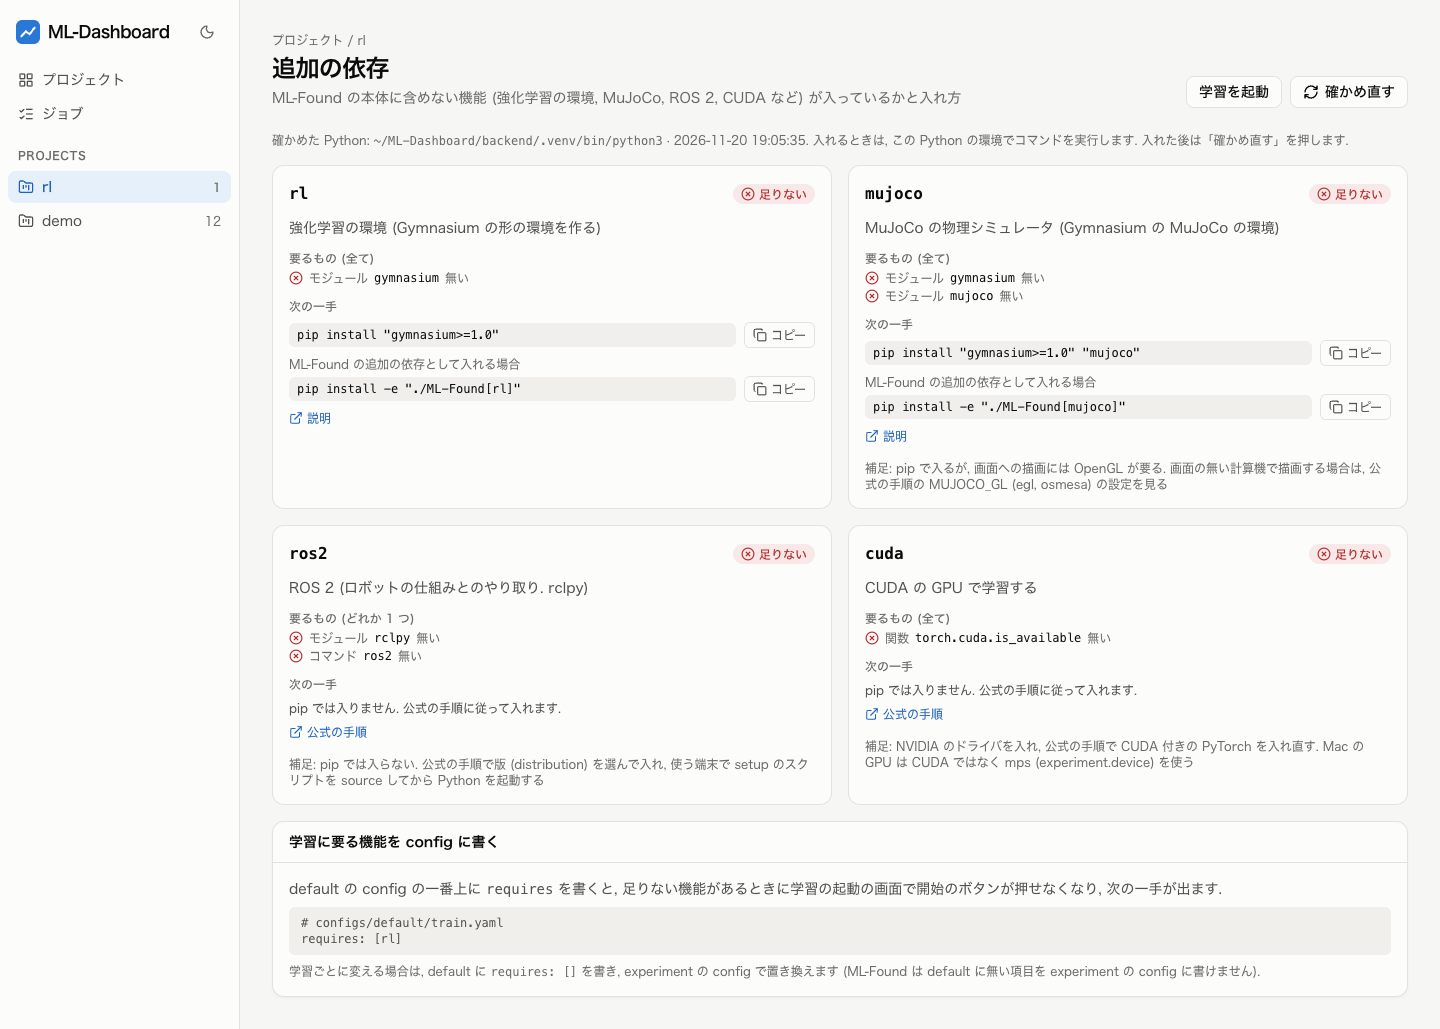
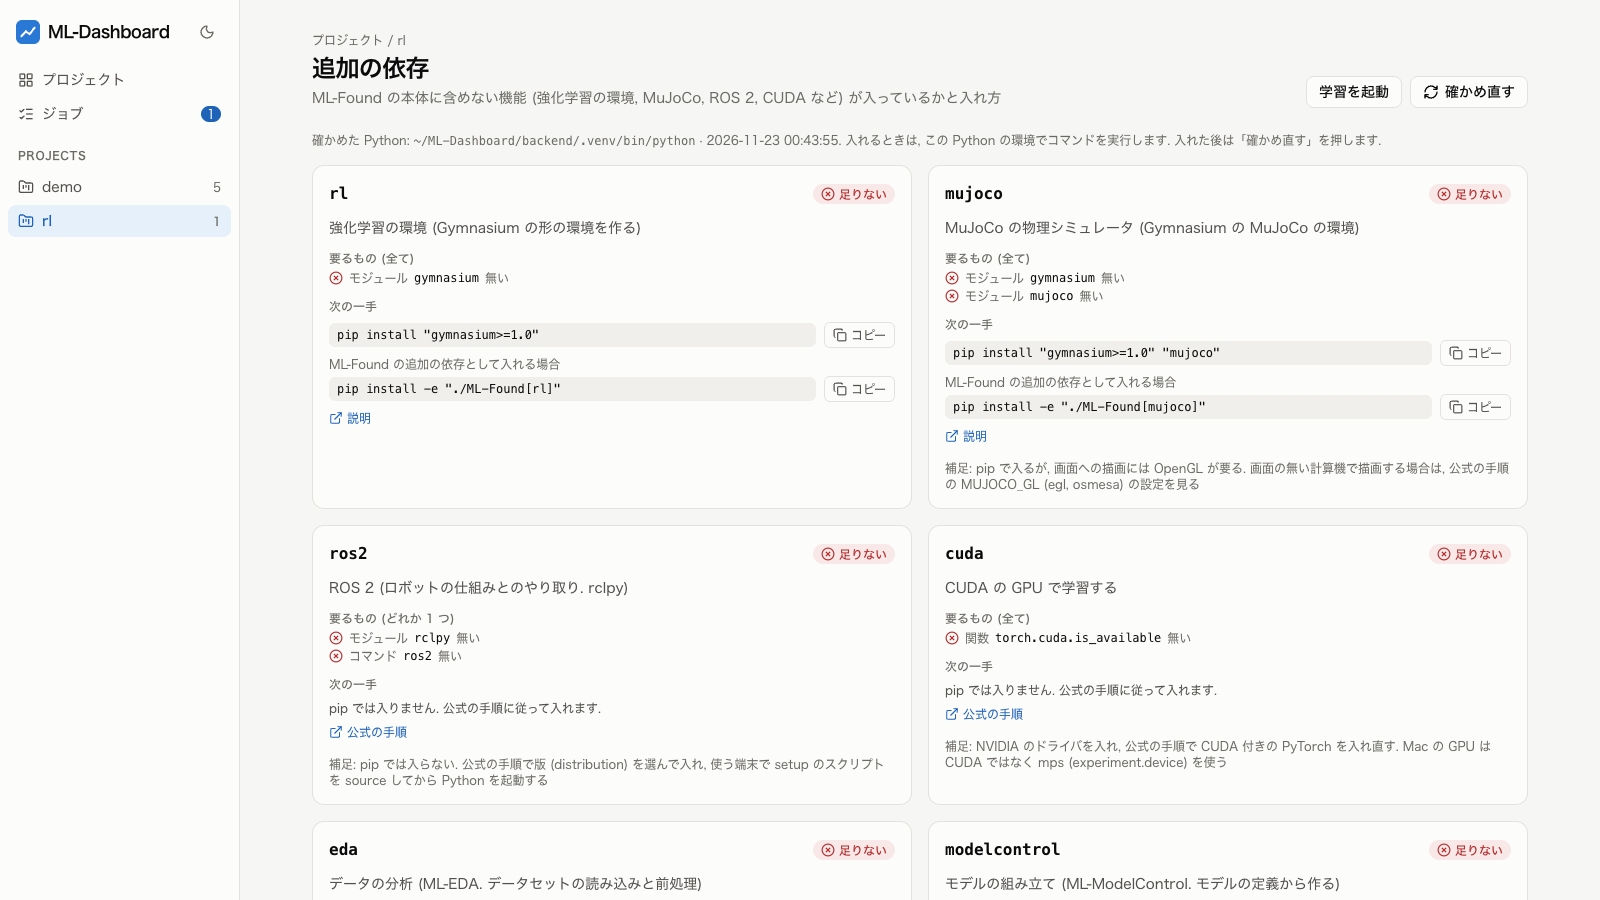
README の画面の図を 1600x900 で全て撮り直し, 撮る仕組みで 7 枚とも撮れるようにする (#128)

diff --git a/frontend/e2e/screenshots.ts b/frontend/e2e/screenshots.ts
@@ -1,16 +1,25 @@
-// README と操作ガイドの画面の図 (実験の一覧と比較) を撮る. e2e/screenshots.sh が
-// デモの実験を作ってダッシュボードを起動してから, node で動かす
+// README の画面の図 7 枚 (1600x900 の窓) と操作ガイドの実験の一覧の図を撮る.
+// e2e/screenshots.sh がデモの実験を作ってダッシュボードを起動してから, node で動かす
 import os from 'node:os'
 import path from 'node:path'
 
-import { chromium, type Page } from '@playwright/test'
+import { chromium, type APIRequestContext, type Page } from '@playwright/test'
 
 const baseURL = process.env.SHOTS_URL ?? 'http://127.0.0.1:8792'
 const token = process.env.SHOTS_TOKEN ?? 'shots-token'
 const demoDir = process.env.SHOTS_DEMO ?? ''
+const rlDir = process.env.SHOTS_RL ?? ''
 const imagesDir = path.resolve(import.meta.dirname, '..', '..', 'docs', 'images')
 // 図に出すプロジェクトの場所 (作業用のディレクトリの場所を図に写さないため)
-const shownDir = '~/ML-Dashboard/demo'
+const shownDirs: [string, string][] = [
+  [demoDir, '~/ML-Dashboard/demo'],
+  [rlDir, '~/ML-Dashboard/rl'],
+  // 学習に使う Python (ダッシュボードの .venv) の場所
+  [path.resolve(import.meta.dirname, '..', '..'), '~/ML-Dashboard'],
+]
+// README の図の窓の大きさ
+const WIDTH = 1600
+const HEIGHT = 900
 // 写ってはいけない注意 (評価を読めない実験. 図の例として誤解を招くため)
 const NOTICE_PATTERN = /出していません|読んでいません|出せない実験/
 
@@ -21,15 +30,18 @@ interface Run {
 
 /** 作業用のディレクトリの場所を, 図に出す場所に置き換える */
 async function hidePaths(page: Page): Promise<void> {
-  const home = demoDir.replace(os.homedir(), '~')
+  // 絶対パスと ~ からのパスの両方を置き換える
+  const pairs = shownDirs.flatMap(([dir, shown]) => [
+    [dir, shown],
+    [dir.replace(os.homedir(), '~'), shown],
+  ])
   // ブラウザの中で動かす文 (e2e の型検査は DOM の型を持たないので文字で渡す)
-  const paths = JSON.stringify([demoDir, home])
   await page.evaluate(`(() => {
     const walker = document.createTreeWalker(document.body, NodeFilter.SHOW_TEXT)
     for (let node = walker.nextNode(); node; node = walker.nextNode()) {
-      for (const item of ${paths}) {
+      for (const [item, shown] of ${JSON.stringify(pairs)}) {
         if (node.textContent.includes(item))
-          node.textContent = node.textContent.replaceAll(item, ${JSON.stringify(shownDir)})
+          node.textContent = node.textContent.replaceAll(item, shown)
       }
     }
   })()`)
@@ -54,6 +66,31 @@ async function fitHeight(page: Page, width: number): Promise<void> {
   await settle(page)
 }
 
+/** 窓の大きさを README の図に戻して, 見えている範囲を撮る */
+async function shoot(page: Page, name: string): Promise<void> {
+  await assertNoNotice(page)
+  await hidePaths(page)
+  await settle(page)
+  await page.screenshot({ path: path.join(imagesDir, name) })
+}
+
+/** 実験の詳細のタブの並びを窓の上端まで流し, タブの中身を見せる */
+async function showTabs(page: Page): Promise<void> {
+  await page.evaluate(`document.querySelector('[role=tablist]').scrollIntoView({ block: 'start' })`)
+}
+
+/** プロジェクトを登録し (登録済みならそのまま), id を返す */
+async function register(request: APIRequestContext, dir: string): Promise<string> {
+  const listed = (await (await request.get('/api/projects')).json()) as {
+    id: string
+    path: string
+  }[]
+  const found = listed.find((project) => project.path === dir)
+  if (found) return found.id
+  const created = await request.post('/api/projects', { data: { path: dir } })
+  return ((await created.json()) as { id: string }).id
+}
+
 /** 写ってはいけない注意があれば止める */
 async function assertNoNotice(page: Page): Promise<void> {
   const count = await page.getByText(NOTICE_PATTERN).count()
@@ -64,28 +101,21 @@ const browser = await chromium.launch({ channel: process.env.CI ? undefined : 'c
 try {
   const context = await browser.newContext({
     baseURL,
-    viewport: { width: 1440, height: 900 },
+    viewport: { width: WIDTH, height: HEIGHT },
     colorScheme: 'light',
     extraHTTPHeaders: { 'x-dashboard-token': token },
   })
   const page = await context.newPage()
-
-  // デモのプロジェクトを登録し (登録済みならそのまま), 実験を読む
-  const listed = (await (await context.request.get('/api/projects')).json()) as {
-    id: string
-    path: string
-  }[]
-  let projectId = listed.find((project) => project.path === demoDir)?.id
-  if (!projectId) {
-    const created = await context.request.post('/api/projects', { data: { path: demoDir } })
-    projectId = ((await created.json()) as { id: string }).id
-  }
+  const projectId = await register(context.request, demoDir)
+  const rlId = await register(context.request, rlDir)
   const runs = (await (
     await context.request.get(`/api/projects/${projectId}/runs`)
   ).json()) as Run[]
+  const spiral = runs.find((run) => run.name === 'spiral')
+  if (!spiral) throw new Error('spiral の実験がありません')
 
-  // 実験の一覧 (評価の列と守る指標の印. 落ちた実験の印は説明を開く). 評価の列が
-  // 収まる幅にする
+  // 操作ガイドの実験の一覧 (評価の列と守る指標の印. 落ちた実験の印は説明を開く).
+  // 評価の列が収まる幅にし, 高さは中身に合わせる
   const listWidth = 1680
   await page.setViewportSize({ width: listWidth, height: 900 })
   await page.goto(`/projects/${projectId}`)
@@ -111,6 +141,7 @@ try {
     quality: 85,
     clip: { x: main.x, y: top, width: main.width, height: main.y + main.height - top },
   })
+  await page.setViewportSize({ width: WIDTH, height: HEIGHT })
 
   // 比較 (spiral, spiral_sgd, spiral_small の最新の実験)
   const picked = ['spiral', 'spiral_sgd', 'spiral_small'].map(
@@ -119,21 +150,72 @@ try {
   if (picked.some((id) => !id))
     throw new Error('spiral, spiral_sgd, spiral_small の実験がありません')
   const query = new URLSearchParams(picked.map((id): [string, string] => ['run', id!]))
-  await page.setViewportSize({ width: 1440, height: 900 })
   await page.goto(`/projects/${projectId}/compare?${query.toString()}`)
   await page.getByRole('heading', { name: 'テスト用の評価' }).waitFor()
   await page
     .getByRole('img', { name: /boundary/ })
     .first()
     .waitFor()
-  await assertNoNotice(page)
-  await hidePaths(page)
-  await fitHeight(page, 1440)
-  await page.screenshot({ path: path.join(imagesDir, 'compare.png') })
+  await shoot(page, 'compare.png')
 
-  console.log(
-    `撮った図: ${path.join(imagesDir, 'guide', 'runs.jpg')}, ${path.join(imagesDir, 'compare.png')}`,
+  // 実験の詳細の評価と見本のタブ (spiral)
+  await page.goto(`/projects/${projectId}/runs/${spiral.id}?tab=evaluations`)
+  await page.getByRole('img', { name: /threshold の曲線/ }).waitFor()
+  await showTabs(page)
+  await shoot(page, 'evaluations.png')
+  await page.goto(`/projects/${projectId}/runs/${spiral.id}?tab=samples`)
+  await page.getByRole('img', { name: 'points の点群を上から見た図' }).waitFor()
+  await showTabs(page)
+  await shoot(page, 'samples.png')
+
+  // 学習の起動 (T_max: auto と warmup を書いて確かめ, 補う値のお知らせを出す)
+  await page.goto(`/projects/${projectId}/launch`)
+  await page
+    .getByLabel('experiment の config')
+    .selectOption('configs/experiment/examples/quick.yaml')
+  const editor = page.getByLabel('config の中身')
+  await editor.fill(
+    'trainer:\n  epochs: 3\nscheduler:\n  name: CosineAnnealingLR\n  interval: step\n' +
+      '  params:\n    T_max: auto\n  warmup_ratio: 0.1\n',
   )
+  await page.getByRole('button', { name: 'ML-Found で config を確かめる' }).click()
+  await page.getByText(/読み込めました/).waitFor()
+  await shoot(page, 'launch.png')
+
+  // 実行中のジョブ (長い学習を起動し, 数エポック進んだところを撮ってすぐに止める)
+  const created = await context.request.post(`/api/projects/${projectId}/jobs`, {
+    data: {
+      script: 'train.py',
+      config_text:
+        'experiment:\n  name: spiral_long\ntrainer:\n  epochs: 200\n' +
+        'data:\n  train_size: 60000\n',
+    },
+  })
+  if (!created.ok()) throw new Error(`学習を起動できません: ${await created.text()}`)
+  const job = (await created.json()) as { id: string }
+  try {
+    await page.goto(`/jobs/${job.id}`)
+    await page
+      .getByText(/^[3-9] \/ 200 エポック/)
+      .first()
+      .waitFor({ timeout: 120_000 })
+    await shoot(page, 'jobs.png')
+  } finally {
+    await context.request.post(`/api/jobs/${job.id}/stop`, {
+      data: { force: true },
+    })
+  }
+
+  // 強化学習の実験の方策のタブと, 追加の依存
+  const rlRun = 'cartpole/2026-11-20/10-00-00'
+  await page.goto(`/projects/${rlId}/runs/${rlRun}?tab=policy`)
+  await page.getByText('一致', { exact: true }).waitFor()
+  await shoot(page, 'policy.png')
+  await page.goto(`/projects/${rlId}/requirements`)
+  await page.getByRole('region', { name: '追加の依存 cuda' }).waitFor()
+  await shoot(page, 'requirements.png')
+
+  console.log(`撮った図: ${imagesDir}`)
 } finally {
   await browser.close()
 }

diff --git a/docs/GUIDE.md b/docs/GUIDE.md
@@ -16,7 +16,7 @@ ML-Dashboard の使い方を, 画面の順に説明する. 各章の「やって
 9. [ML_tester のタスクで試す (任意)](#9-ml_tester-のタスクで試す-任意)
 10. [困ったとき](#10-困ったとき)
 
-画面の図は `demo` の実験で, 実験の一覧と比較の図は `make demo` の 4 つ (`make screenshots` で撮る), 他の図はそれに 6 章の「やってみる」のように学習率と隠れ層の大きさを変えた `spiral` の実験をいくつか足したもの. 方策と追加の依存の図は, 画面の通しのテストに置いた強化学習の実験 (`frontend/e2e/fixtures/rl/`) を `rl` として登録したもの.
+画面の図は `demo` の実験で, `images/` の直下の図 (方策と追加の依存の図を除く) と実験の一覧の図は `make demo` の 4 つ (`make screenshots` で撮る. 実行中のジョブの図は, それに長い学習を 1 つ足したもの), 他の図はそれに 6 章の「やってみる」のように学習率と隠れ層の大きさを変えた `spiral` の実験をいくつか足したもの. 方策と追加の依存の図は, 画面の通しのテストに置いた強化学習の実験 (`frontend/e2e/fixtures/rl/`) を `rl` として登録したもの.
 
 ## 準備
 
@@ -253,7 +253,7 @@ uv run python ../demo/train.py model.hidden_dim=16
   </tr>
   <tr>
     <td>誤りの例 (<code>demo</code>). YAML の欄に <code>lr: -0.1</code> を書いて確かめると「lr は 0.0 以上 (今は -0.1)」と出て, フォームの lr の欄も赤くなる</td>
-    <td><code>T_max: auto</code> と <code>warmup_ratio: 0.1</code> を書いた例 (<code>demo</code>). フォームにも <code>auto</code> が出る. 確かめると, 補う値がフォームの上のお知らせに出る</td>
+    <td><code>T_max: auto</code> と <code>warmup_ratio: 0.1</code> を書いた例 (<code>demo</code>). 右の YAML に <code>auto</code> が出る. 確かめると, 補う値がフォームの上のお知らせに出る</td>
   </tr>
 </table>
 

diff --git a/README.md b/README.md
@@ -82,7 +82,7 @@ make dev-frontend   # 画面 (http://localhost:5173, API に転送. ポートを
 make check          # lint, 型検査, テスト
 make e2e            # 画面の通しのテスト (Playwright). デモの実験を作ってからダッシュボードを起動して操作する
 make api            # バックエンドの API を変えたら, 画面の型を作り直す
-make screenshots    # README と操作ガイドの画面の図 (実験の一覧と比較) を撮り直す. 手元の Chrome を使い, git に入っている docs/images の図を上書きする
+make screenshots    # README の画面の図 (7 枚) と操作ガイドの実験の一覧の図を撮り直す. 手元の Chrome を使い, git に入っている docs/images の図を上書きする
 ```
 
 | ディレクトリ | 内容 |
